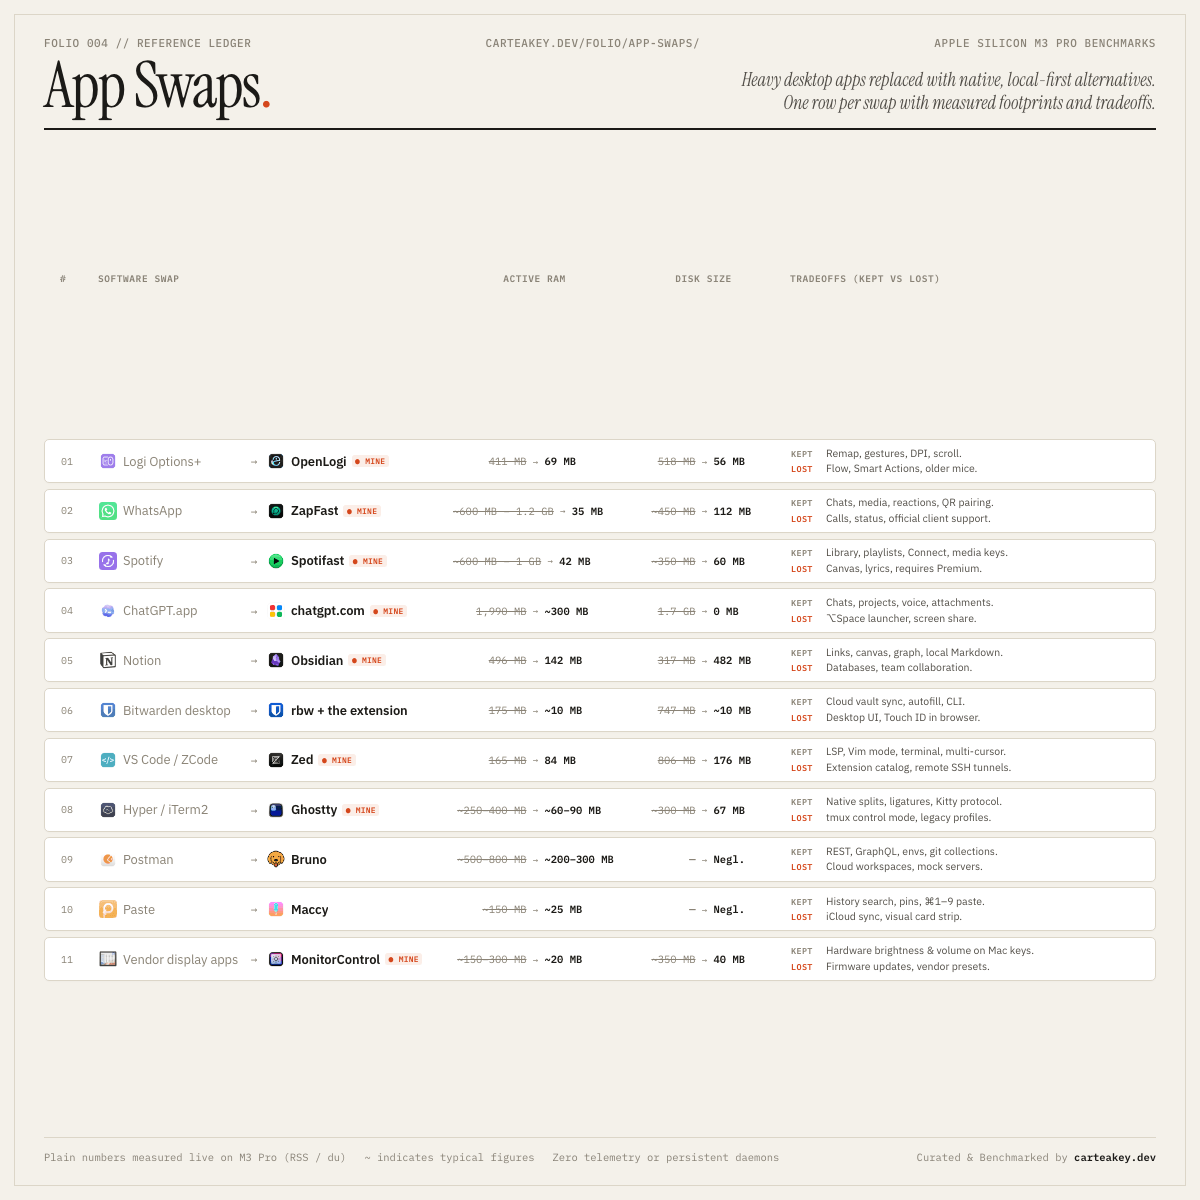
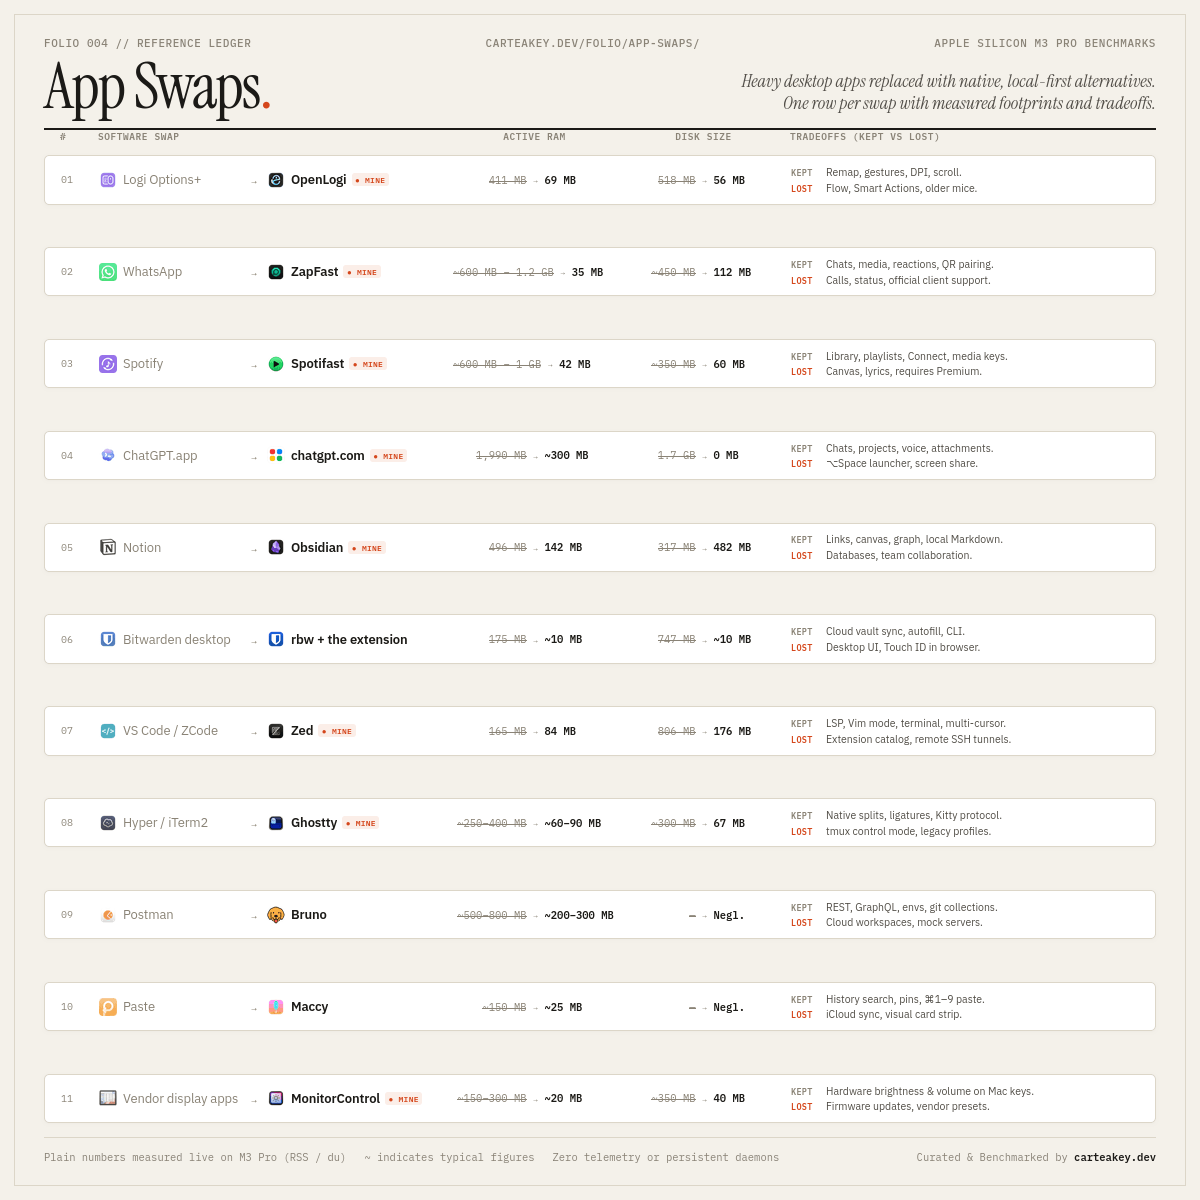
fix(folio): distribute app swaps ledger across the poster height
The 1200x1200 poster used justify-content: space-between, which pooled the
leftover height into dead bands between the masthead, the column labels,
the rows, and the footer. Pin the ledger to fill the middle instead and
re-render the PNG from the fixed source.

diff --git a/src/folio/app-swaps/infographic.html b/src/folio/app-swaps/infographic.html
@@ -34,7 +34,6 @@ permalink: /folio/app-swaps/infographic/
       padding: 36px 44px;
       display: flex;
       flex-direction: column;
-      justify-content: space-between;
       -webkit-font-smoothing: antialiased;
     }
     .poster-border {
@@ -101,6 +100,8 @@ permalink: /folio/app-swaps/infographic/
     .ledger {
       display: flex;
       flex-direction: column;
+      justify-content: space-between;
+      flex: 1;
       gap: 5.5px;
       margin: 10px 0 14px;
     }
@@ -108,7 +109,7 @@ permalink: /folio/app-swaps/infographic/
       background: var(--row-bg);
       border: 1px solid var(--rule);
       border-radius: 5px;
-      padding: 6.5px 16px;
+      padding: 9px 16px;
       display: grid;
       grid-template-columns: 24px 340px 165px 145px 1fr;
       align-items: center;
